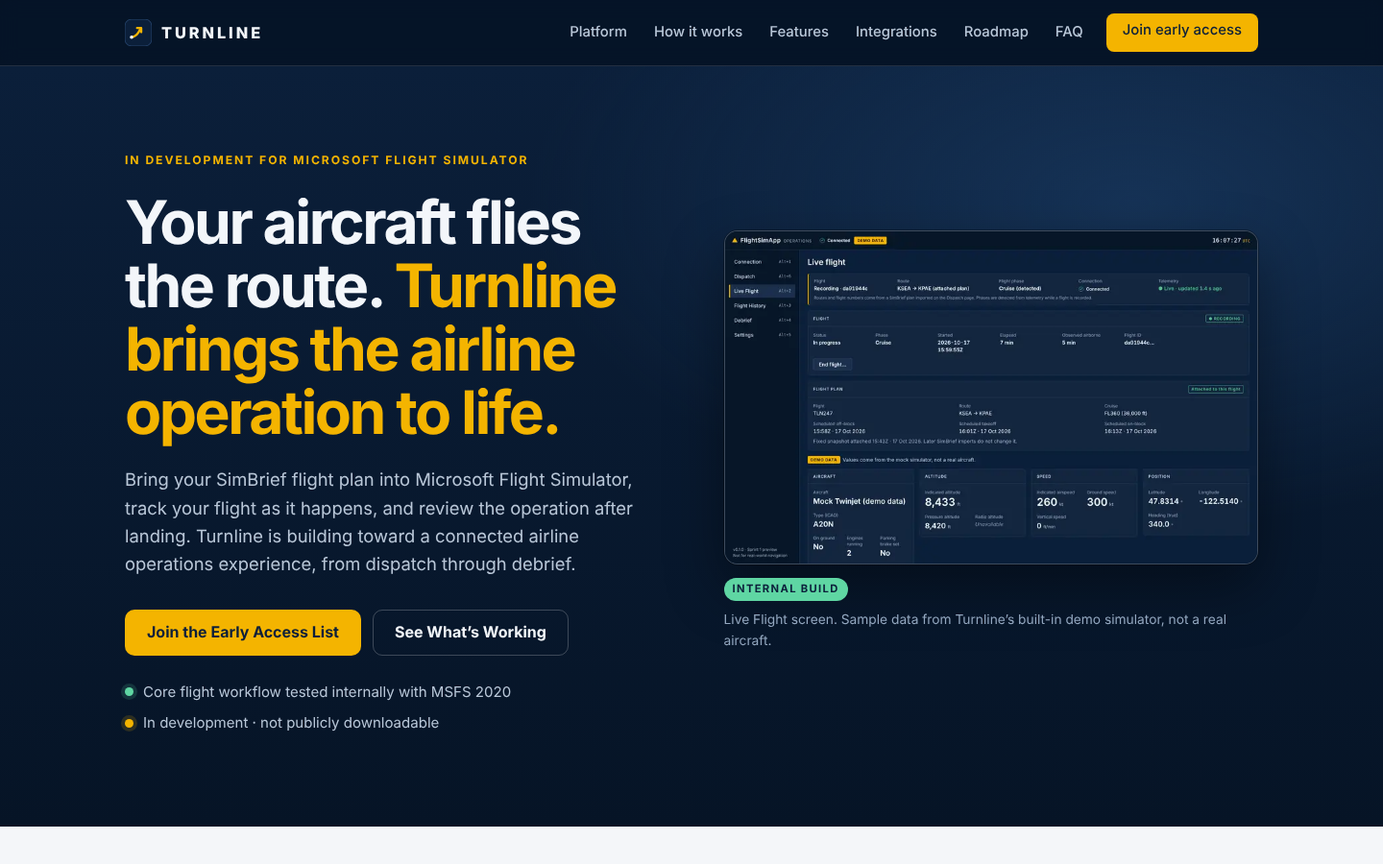
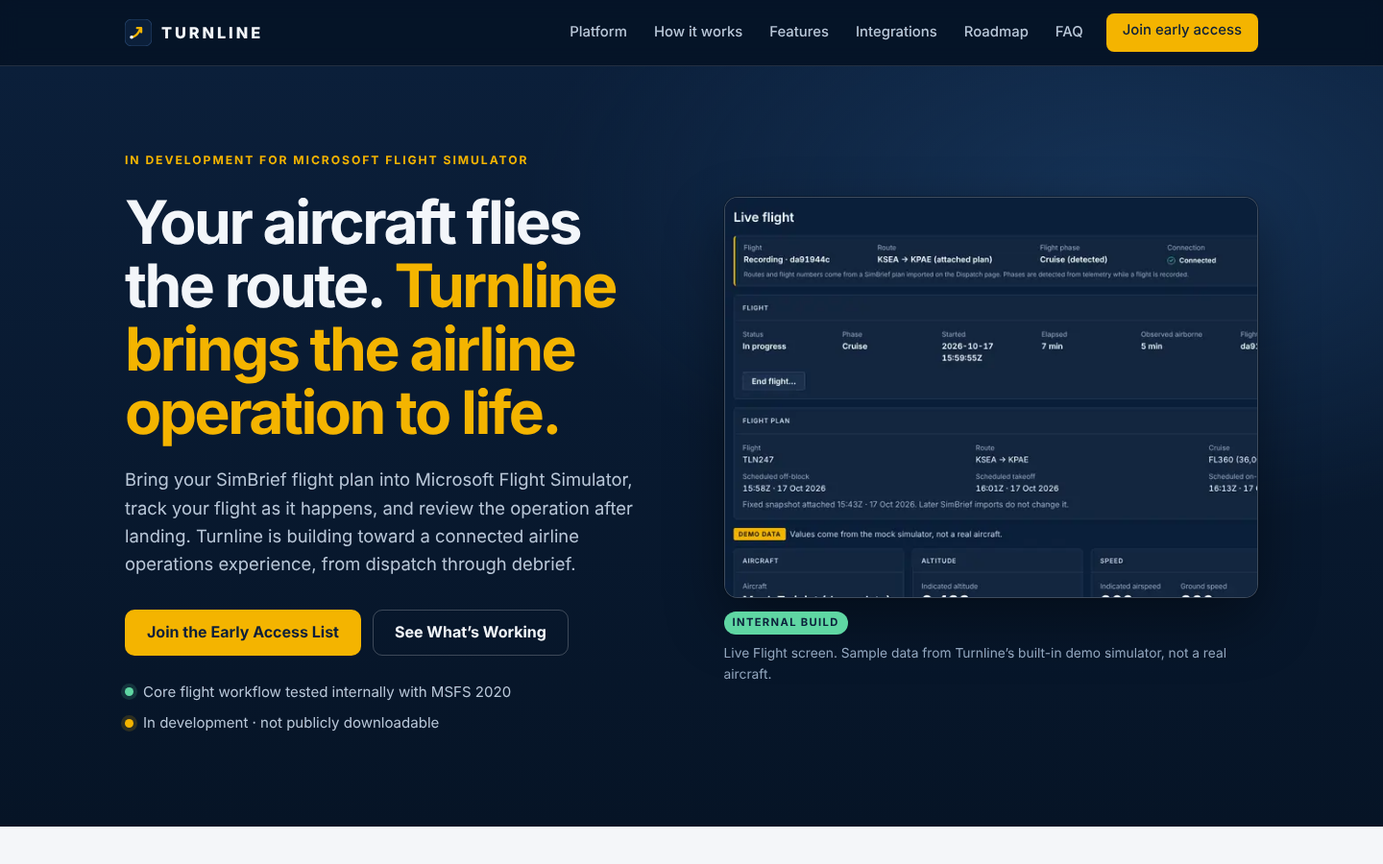
Marketing V3 finalization: deployment docs, MSFS 2020 owner acceptance, screenshot polish
Deployment (marketing/README.md):
- Production is https://turnlineops.com on Cloudflare Pages, deployed
  from main using marketing/. The outdated claude/new-session-2b3s69
  reference is removed.
- Documents the workflow (a merge to main deploys automatically),
  rollback, and how to verify production after an approved merge.

Acceptance evidence:
- New docs/testing/msfs2020-owner-acceptance-s2-01.md records the
  owner-reported hands-on acceptance with a real MSFS 2020 and a real
  SimBrief account (nine checks). Build, simulator version, aircraft,
  test date and recordings are marked not recorded.
- The MSFS 2020 matrix gains an OWNER-ACCEPTED evidence class (weaker
  than PASS). Only the directly supported rows are marked; every
  telemetry-field, behaviour and lifecycle cell stays NOT RUN. The test
  plan status points to the new record.

Website:
- "Tested" copy now matches the accepted checks: hands-on acceptance,
  not certification; scheduled OUT/OFF/ON/IN times; duplicate-import
  and offline-failure handling; history framed as listed. Persistent
  flight history moves to "Implemented internally", since restart
  survival with MSFS was not reported.
- Screenshots: the app top bar (internal name "FlightSimApp") is
  cropped out, with nothing retouched. New 4:3 detail crops are served
  to phones via <picture> and used for a more legible hero. An
  accessible <dialog> lightbox shows the full screens and falls back to
  plain links.
[…]

diff --git a/marketing/index.html b/marketing/index.html
@@ -93,9 +93,9 @@
     </div>
 
     <figure class="shot hero-shot reveal">
-      <div class="shot-frame">
-        <img src="assets/screens/live-1600.webp" srcset="assets/screens/live-800.webp 800w, assets/screens/live-1600.webp 1600w" sizes="(max-width: 960px) calc(100vw - 32px), 560px" width="1600" height="1000" fetchpriority="high" decoding="async" alt="Turnline Live Flight screen from an internal build: a flight from KSEA to KPAE is being recorded in cruise, with its attached SimBrief plan, live connection status, altitude 8,433 ft and ground speed 300 kt. Sample data from the built-in demo simulator.">
-      </div>
+      <a class="shot-frame" href="assets/screens/live-1600.webp" data-lightbox aria-label="Open the full Live Flight screenshot">
+        <img src="assets/screens/live-detail-1000.webp" srcset="assets/screens/live-detail-600.webp 600w, assets/screens/live-detail-1000.webp 1000w" sizes="(max-width: 960px) calc(100vw - 32px), 560px" width="1000" height="750" fetchpriority="high" decoding="async" alt="Turnline Live Flight screen from an internal build: a flight from KSEA to KPAE is being recorded in cruise with its attached SimBrief plan, live connection status and a demo-data notice. Sample data from the built-in demo simulator.">
+      </a>
       <figcaption class="shot-caption"><span class="real-tag">Internal build</span> Live Flight screen. Sample data from Turnline’s built-in demo simulator, not a real aircraft.</figcaption>
     </figure>
   </div>
@@ -107,21 +107,21 @@
     <div class="section-head reveal">
       <p class="eyebrow">Built and tested</p>
       <h2 id="working-title">What’s working today</h2>
-      <p>These capabilities are implemented in internal Windows builds and have been tested on a real PC running Microsoft Flight Simulator 2020. They aren’t publicly available yet.</p>
+      <p>These capabilities are implemented in internal Windows builds and have passed hands-on acceptance testing on a real PC running Microsoft Flight Simulator 2020, with a real SimBrief account. They aren’t publicly available yet.</p>
     </div>
     <ul class="built-grid" role="list">
       <li class="built reveal"><span class="status tested">Implemented internally · MSFS 2020 tested</span><h3>Windows desktop simulator connection</h3><p>A Windows app with a background simulator bridge that reads live aircraft data from MSFS 2020 and shows connection and data freshness honestly.</p></li>
-      <li class="built reveal"><span class="status tested">Implemented internally · MSFS 2020 tested</span><h3>Flight recording and history</h3><p>Start a flight and Turnline records phases, events and a track. Completed flights stay in your history on your PC.</p></li>
-      <li class="built reveal"><span class="status tested">Implemented internally · MSFS 2020 tested</span><h3>SimBrief OFP import</h3><p>Import your latest SimBrief operational flight plan by username or pilot ID: route, fuel, weights and aircraft. No Navigraph password is ever requested.</p></li>
-      <li class="built reveal"><span class="status tested">Implemented internally · MSFS 2020 tested</span><h3>Scheduled and estimated flight information</h3><p>Scheduled and estimated off-block, takeoff, landing and on-block times from the plan, in UTC.</p></li>
-      <li class="built reveal"><span class="status tested">Implemented internally · MSFS 2020 tested</span><h3>Plan persistence and offline use</h3><p>An imported plan is saved locally and stays available after a restart or without an internet connection.</p></li>
-      <li class="built reveal"><span class="status tested">Implemented internally · MSFS 2020 tested</span><h3>Immutable flight-plan attachment</h3><p>Attach the plan to a flight as a fixed snapshot. Later SimBrief imports never change what that flight was planned against.</p></li>
+      <li class="built reveal"><span class="status tested">Implemented internally · MSFS 2020 tested</span><h3>Flight recording and history</h3><p>Start a flight and Turnline records phases, events and a track until you confirm completion. Completed flights are listed in your history.</p></li>
+      <li class="built reveal"><span class="status tested">Implemented internally · MSFS 2020 tested</span><h3>SimBrief OFP import</h3><p>Import your latest SimBrief operational flight plan by username or pilot ID: route, fuel, weights and aircraft. Re-importing the same plan is handled cleanly, and no Navigraph password is ever requested.</p></li>
+      <li class="built reveal"><span class="status tested">Implemented internally · MSFS 2020 tested</span><h3>Scheduled flight times</h3><p>Scheduled off-block, takeoff, landing and on-block times (OUT/OFF/ON/IN) from your OFP, in UTC, matching SimBrief. Estimated times are shown alongside.</p></li>
+      <li class="built reveal"><span class="status tested">Implemented internally · MSFS 2020 tested</span><h3>Plan persistence and offline use</h3><p>An imported plan is saved locally and stays available after a restart or without an internet connection. An import attempted offline fails with a clear message.</p></li>
+      <li class="built reveal"><span class="status tested">Implemented internally · MSFS 2020 tested</span><h3>Flight-plan attachment</h3><p>Attach the plan to a flight as a fixed snapshot. Later SimBrief imports never change what that flight was planned against.</p></li>
       <li class="built reveal"><span class="status tested">Implemented internally · MSFS 2020 tested</span><h3>Planned-versus-actual debrief</h3><p>After landing, compare planned and detected takeoff, landing and flight time. Values that weren’t detected are shown as such, never guessed.</p></li>
     </ul>
     <div class="limits reveal">
       <h3>What “tested” means here</h3>
       <ul>
-        <li>Tested by the developer on a Windows PC with MSFS 2020, in the scenarios Turnline currently supports.</li>
+        <li>Hands-on acceptance testing by the Turnline team on one Windows PC with MSFS 2020 and a real SimBrief account, in the scenarios Turnline currently supports. It is not a formal compatibility certification.</li>
         <li>Public availability and broad aircraft, add-on and hardware compatibility have not been established.</li>
         <li>Microsoft Flight Simulator 2024 compatibility has not been verified.</li>
       </ul>
@@ -142,27 +142,27 @@
     <div class="section-head reveal">
       <p class="eyebrow">Inside the app</p>
       <h2 id="product-title">Real screens from the current internal build</h2>
-      <p>Captured from Turnline’s desktop app using sample data: a fictional SimBrief plan and the demo flight from the built-in mock simulator. The title bar shows the project’s working name.</p>
+      <p>Captured from Turnline’s desktop app using sample data: a fictional SimBrief plan and the demo flight from the built-in mock simulator. The app’s title bar is cropped out; nothing on the screens has been edited.</p>
     </div>
     <div class="gallery">
       <figure class="shot reveal">
-        <a class="shot-frame" href="assets/screens/dispatch-1600.webp" aria-label="Open the full-size Dispatch screenshot"><img src="assets/screens/dispatch-800.webp" srcset="assets/screens/dispatch-800.webp 800w, assets/screens/dispatch-1600.webp 1600w" sizes="(max-width: 960px) calc(100vw - 32px), 560px" width="1600" height="1000" loading="lazy" decoding="async" alt="Dispatch screen: a SimBrief plan for fictional flight TLN247 from Boston to Chicago O’Hare has been imported, showing aircraft, route, scheduled and estimated times, and planned fuel."></a>
+        <a class="shot-frame" href="assets/screens/dispatch-1600.webp" data-lightbox aria-label="Open the full-size Dispatch screenshot"><picture><source media="(max-width: 600px)" srcset="assets/screens/dispatch-detail-600.webp 600w, assets/screens/dispatch-detail-1000.webp 1000w" sizes="calc(100vw - 32px)" width="1000" height="750"><img src="assets/screens/dispatch-800.webp" srcset="assets/screens/dispatch-800.webp 800w, assets/screens/dispatch-1600.webp 1600w" sizes="(max-width: 960px) calc(100vw - 32px), 560px" width="1600" height="944" loading="lazy" decoding="async" alt="Dispatch screen: a SimBrief plan for fictional flight TLN247 from Boston to Chicago O’Hare has been imported, showing aircraft, route, scheduled and estimated times, and planned fuel."></picture></a>
         <figcaption><h3>Dispatch and SimBrief import</h3><p>Your latest OFP, imported on request: route, schedule, fuel and weights.</p></figcaption>
       </figure>
       <figure class="shot reveal">
-        <a class="shot-frame" href="assets/screens/live-1600.webp" aria-label="Open the full-size Live Flight screenshot"><img src="assets/screens/live-800.webp" srcset="assets/screens/live-800.webp 800w, assets/screens/live-1600.webp 1600w" sizes="(max-width: 960px) calc(100vw - 32px), 560px" width="1600" height="1000" loading="lazy" decoding="async" alt="Live Flight screen: a flight in cruise is being recorded with its attached plan, detected phase, live telemetry status, aircraft, altitude, speed and position."></a>
+        <a class="shot-frame" href="assets/screens/live-1600.webp" data-lightbox aria-label="Open the full-size Live Flight screenshot"><picture><source media="(max-width: 600px)" srcset="assets/screens/live-detail-600.webp 600w, assets/screens/live-detail-1000.webp 1000w" sizes="calc(100vw - 32px)" width="1000" height="750"><img src="assets/screens/live-800.webp" srcset="assets/screens/live-800.webp 800w, assets/screens/live-1600.webp 1600w" sizes="(max-width: 960px) calc(100vw - 32px), 560px" width="1600" height="944" loading="lazy" decoding="async" alt="Live Flight screen: a flight in cruise is being recorded with its attached plan, detected phase, live telemetry status, aircraft, altitude, speed and position."></picture></a>
         <figcaption><h3>Live Flight telemetry</h3><p>Detected phase, live aircraft data and the attached plan while the flight is recorded.</p></figcaption>
       </figure>
       <figure class="shot reveal">
-        <a class="shot-frame" href="assets/screens/history-1600.webp" aria-label="Open the full-size Flight History screenshot"><img src="assets/screens/history-800.webp" srcset="assets/screens/history-800.webp 800w, assets/screens/history-1600.webp 1600w" sizes="(max-width: 960px) calc(100vw - 32px), 560px" width="1600" height="1000" loading="lazy" decoding="async" alt="Flight History screen listing three completed demo flights with start time, aircraft, session time, airborne time and a link to each debrief."></a>
+        <a class="shot-frame" href="assets/screens/history-1600.webp" data-lightbox aria-label="Open the full-size Flight History screenshot"><picture><source media="(max-width: 600px)" srcset="assets/screens/history-detail-600.webp 600w, assets/screens/history-detail-1000.webp 1000w" sizes="calc(100vw - 32px)" width="1000" height="750"><img src="assets/screens/history-800.webp" srcset="assets/screens/history-800.webp 800w, assets/screens/history-1600.webp 1600w" sizes="(max-width: 960px) calc(100vw - 32px), 560px" width="1600" height="944" loading="lazy" decoding="async" alt="Flight History screen listing three completed demo flights with start time, aircraft, session time, airborne time and a link to each debrief."></picture></a>
         <figcaption><h3>Flight History</h3><p>Every recorded flight, stored on your PC, with session and airborne time.</p></figcaption>
       </figure>
       <figure class="shot reveal">
-        <a class="shot-frame" href="assets/screens/debrief-1600.webp" aria-label="Open the full-size Debrief screenshot"><img src="assets/screens/debrief-800.webp" srcset="assets/screens/debrief-800.webp 800w, assets/screens/debrief-1600.webp 1600w" sizes="(max-width: 960px) calc(100vw - 32px), 560px" width="1600" height="1000" loading="lazy" decoding="async" alt="Flight debrief screen: a planned-versus-actual table compares planned and detected takeoff, landing and flight time, with off-block and on-block marked as not detected, above the recorded flight overview."></a>
+        <a class="shot-frame" href="assets/screens/debrief-1600.webp" data-lightbox aria-label="Open the full-size Debrief screenshot"><picture><source media="(max-width: 600px)" srcset="assets/screens/debrief-detail-600.webp 600w, assets/screens/debrief-detail-1000.webp 1000w" sizes="calc(100vw - 32px)" width="1000" height="750"><img src="assets/screens/debrief-800.webp" srcset="assets/screens/debrief-800.webp 800w, assets/screens/debrief-1600.webp 1600w" sizes="(max-width: 960px) calc(100vw - 32px), 560px" width="1600" height="944" loading="lazy" decoding="async" alt="Flight debrief screen: a planned-versus-actual table compares planned and detected takeoff, landing and flight time, with off-block and on-block marked as not detected, above the recorded flight overview."></picture></a>
         <figcaption><h3>Operational Debrief</h3><p>Planned versus actual, from what was really detected. No invented delays or scores.</p></figcaption>
       </figure>
     </div>
-    <p class="gallery-note">Screens show sample data, not a real aircraft or a real SimBrief account. Dispatch release, route monitoring and the other features still in development are not shown.</p>
+    <p class="gallery-note">Screens show sample data, not a real aircraft or a real SimBrief account. Select a screen to see it full size; on small screens each preview shows a detail of the full screen. Dispatch release, route monitoring and the other features still in development are not shown.</p>
   </div>
 </section>
 
@@ -241,8 +241,8 @@
           <ul class="feature-list">
             <li><div class="fl-top"><strong>SimBrief OFP import</strong><span class="status tested">Implemented internally · MSFS 2020 tested</span></div><p>Import your latest SimBrief plan by username or pilot ID, only when you ask. Tested with a real SimBrief account.</p></li>
             <li><div class="fl-top"><strong>Operational flight plan information</strong><span class="status tested">Implemented internally · MSFS 2020 tested</span></div><p>Flight, aircraft, route, alternate, weights and planned fuel shown alongside the flight.</p></li>
-            <li><div class="fl-top"><strong>Scheduled &amp; estimated times</strong><span class="status tested">Implemented internally · MSFS 2020 tested</span></div><p>Scheduled and estimated off-block, takeoff, landing and on-block times from the plan.</p></li>
-            <li><div class="fl-top"><strong>Plan persistence &amp; offline use</strong><span class="status tested">Implemented internally · MSFS 2020 tested</span></div><p>The imported plan is stored locally and survives restarts and lost connectivity.</p></li>
+            <li><div class="fl-top"><strong>Scheduled times (OUT/OFF/ON/IN)</strong><span class="status tested">Implemented internally · MSFS 2020 tested</span></div><p>Scheduled off-block, takeoff, landing and on-block times from the plan, matching SimBrief; estimates shown alongside.</p></li>
+            <li><div class="fl-top"><strong>Plan persistence &amp; offline use</strong><span class="status tested">Implemented internally · MSFS 2020 tested</span></div><p>The imported plan survives restarts and lost connectivity; an offline import fails gracefully.</p></li>
             <li><div class="fl-top"><strong>Immutable plan attachment</strong><span class="status tested">Implemented internally · MSFS 2020 tested</span></div><p>A fixed snapshot of the plan is attached to the flight; later imports never change it.</p></li>
             <li><div class="fl-top"><strong>Dispatch release workflow</strong><span class="status dev">In active development</span></div><p>A formal point where the flight is released. Built; awaiting acceptance testing on Windows.</p></li>
             <li><div class="fl-top"><strong>Waypoint navigation log</strong><span class="status dev">In active development</span></div><p>The plan’s waypoints with planned altitude, distance, time and fuel. Awaiting real-flight acceptance.</p></li>
@@ -300,7 +300,7 @@
           <ul class="feature-list">
             <li><div class="fl-top"><strong>Flight timeline</strong><span class="status tested">Implemented internally · MSFS 2020 tested</span></div><p>A phase-by-phase timeline and event log of each recorded flight.</p></li>
             <li><div class="fl-top"><strong>Planned versus actual</strong><span class="status tested">Implemented internally · MSFS 2020 tested</span></div><p>Detected takeoff, landing and flight time compared with the attached plan; anything not detected is shown as such.</p></li>
-            <li><div class="fl-top"><strong>Persistent flight history</strong><span class="status tested">Implemented internally · MSFS 2020 tested</span></div><p>Flights stored locally on your PC, so your history doesn’t depend on a cloud account.</p></li>
+            <li><div class="fl-top"><strong>Persistent flight history</strong><span class="status impl">Implemented internally</span></div><p>Flights stored locally on your PC, so your history doesn’t depend on a cloud account. Survives restarts in internal tests; not yet separately checked with MSFS.</p></li>
             <li><div class="fl-top"><strong>Navigation debrief</strong><span class="status dev">In active development</span></div><p>Planned versus flown route distance and time outside the planned route corridor, described as observations, not judgements.</p></li>
             <li><div class="fl-top"><strong>Delay classification</strong><span class="status plan">Planned</span></div><p>Delays attributed to causes such as boarding, servicing or air traffic.</p></li>
             <li><div class="fl-top"><strong>Decision-based analysis</strong><span class="status plan">Planned</span></div><p>The decisions you made and the consequences that followed.</p></li>
@@ -518,6 +518,15 @@
     </div>
   </div>
 </section>
+
+<dialog class="lightbox" id="lightbox" aria-labelledby="lightbox-title">
+  <div class="lightbox-bar">
+    <p class="lightbox-title" id="lightbox-title">Screenshot</p>
+    <button class="lightbox-close" type="button" aria-label="Close screenshot">Close</button>
+  </div>
+  <div class="lightbox-body"><img alt="" width="1600" height="944" decoding="async"></div>
+  <p class="lightbox-note">Internal build · sample data. On small screens, scroll to see the whole screen.</p>
+</dialog>
 
 </main>
 

diff --git a/marketing/assets/site.css b/marketing/assets/site.css
@@ -191,7 +191,8 @@ section { position: relative; }
   display: block; border-radius: 14px; overflow: hidden; background: var(--navy-900);
   border: 1px solid var(--line-strong); box-shadow: 0 24px 60px rgba(0, 0, 0, .4), 0 0 0 1px rgba(0, 0, 0, .25);
 }
-.shot-frame img { width: 100%; height: auto; aspect-ratio: 16 / 10; object-fit: cover; object-position: top left; }
+.shot-frame img { width: 100%; height: auto; }
+.shot-frame picture { display: block; }
 a.shot-frame { transition: border-color .15s ease; }
 a.shot-frame:hover { border-color: var(--gold); }
 .shot-caption { margin-top: 14px; font-size: .86rem; color: var(--dim); display: flex; flex-wrap: wrap; align-items: center; gap: 8px; }
@@ -204,6 +205,20 @@ a.shot-frame:hover { border-color: var(--gold); }
 .gallery figcaption h3 { font-size: 1.12rem; }
 .gallery figcaption p { margin-top: 4px; color: var(--muted); font-size: .94rem; }
 .gallery-note { margin-top: 30px; color: var(--dim); font-size: .9rem; max-width: 820px; }
+.lightbox {
+  width: min(1240px, calc(100vw - 24px)); max-width: none; max-height: calc(100vh - 24px); padding: 0; overflow: hidden;
+  border: 1px solid var(--line-strong); border-radius: 14px; background: var(--navy-950); color: var(--text);
+}
+.lightbox::backdrop { background: rgba(3, 10, 20, .82); }
+.lightbox[open] { display: flex; flex-direction: column; }
+.lightbox-bar { display: flex; align-items: center; justify-content: space-between; gap: 12px; padding: 10px 12px 10px 18px; border-bottom: 1px solid var(--line); }
+.lightbox-title { font-weight: 700; }
+.lightbox-close { min-height: 40px; padding: 6px 14px; border-radius: 9px; border: 1px solid var(--line-strong); background: transparent; color: var(--text); font-weight: 650; }
+.lightbox-close:hover { border-color: var(--gold); }
+.lightbox-body { overflow: auto; flex: 1; min-height: 0; -webkit-overflow-scrolling: touch; }
+.lightbox-body img { width: 100%; height: auto; }
+.lightbox-note { padding: 8px 18px 12px; font-size: .82rem; color: var(--dim); border-top: 1px solid var(--line); }
+@media (max-width: 680px) { .lightbox-body img { width: 1100px; max-width: none; } }
 /* ---------- built and tested ---------- */
 .built-grid { list-style: none; display: grid; grid-template-columns: repeat(4, minmax(0, 1fr)); gap: 16px; }
 .built { background: var(--white); border: 1px solid var(--slate-200); border-radius: var(--radius); padding: 22px; display: flex; flex-direction: column; gap: 10px; box-shadow: 0 1px 2px rgba(11, 31, 58, .05); }

diff --git a/marketing/assets/site.js b/marketing/assets/site.js
@@ -83,6 +83,26 @@
     reveals.forEach((el) => el.classList.add('is-visible'));
   }
 
+  // ---------- screenshot lightbox (links open the image directly without JS or <dialog>) ----------
+  const lightbox = $('#lightbox');
+  if (lightbox && typeof lightbox.showModal === 'function') {
+    const img = $('img', lightbox);
+    const title = $('#lightbox-title');
+    $$('[data-lightbox]').forEach((link) => link.addEventListener('click', (e) => {
+      if (e.button !== 0 || e.metaKey || e.ctrlKey || e.shiftKey || e.altKey) return; // keep new-tab behaviour
+      e.preventDefault();
+      const shown = $('img', link);
+      img.src = link.getAttribute('href');
+      img.alt = shown ? shown.alt : '';
+      title.textContent = link.closest('figure')?.querySelector('h3')?.textContent || 'Live Flight';
+      lightbox.showModal();
+      $('.lightbox-close', lightbox).focus();
+    }));
+    $('.lightbox-close', lightbox).addEventListener('click', () => lightbox.close());
+    lightbox.addEventListener('click', (e) => { if (e.target === lightbox) lightbox.close(); });
+    lightbox.addEventListener('close', () => { img.removeAttribute('src'); });
+  }
+
   // ---------- waitlist ----------
   const cfg = window.TURNLINE_CONFIG || {};
   const form = $('#signup');

diff --git a/marketing/README.md b/marketing/README.md
@@ -1,8 +1,49 @@
 # Turnline marketing site
 
-Static prelaunch site for turnlineops.com, served by Cloudflare Pages from this `marketing/` directory
-(branch `claude/new-session-2b3s69`). It is NOT part of the desktop app. Launch posture: `noindex,nofollow`
-stays on every page until the owner approves discoverability and brand clearance.
+Static prelaunch site. It is NOT part of the desktop app. Launch posture: `noindex,nofollow` (the meta tag on
+every page plus the `X-Robots-Tag` header in `_headers`) stays until the owner approves discoverability and brand
+clearance.
+
+## Deployment
+
+| | |
+|---|---|
+| Production domain | https://turnlineops.com |
+| Platform | Cloudflare Pages |
+| Production branch | `main` |
+| Site directory (build output) | `marketing/` (static files; no build step) |
+| Previews | Cloudflare Pages builds a preview URL for each pull-request branch (posted on the PR by the Cloudflare bot). Previews are not production. |
+
+**A merge to `main` deploys production automatically.** Anything merged into `marketing/` on `main` goes live
+without a separate release step, so merge marketing PRs only with explicit owner approval.
+
+**Workflow:**
+1. Work on a feature branch, open a PR against `main`, and check the Cloudflare preview URL on the PR.
+2. Run the site tests, normally and with `--live-turnstile` (see Testing), and wait for CI on the PR.
+3. The owner approves and merges. Cloudflare Pages then builds and publishes `main` (watch the deployment in the
+   Cloudflare dashboard, or the commit status on `main`).
+4. **To roll back,** re-deploy the previous production deployment from the Cloudflare Pages dashboard, or revert the
+   merge commit on `main`.
+   - Signups alone can be disabled without a redeploy of other content: set `apiUrl: ""` in `config.js` (the page then
+     shows "Signups are not open yet").
+
+**Verify production after an approved merge** (no real subscriber data):
+- `https://turnlineops.com/` returns 200 and shows the merged content. Check the hero headline, and that the "What’s
+  working today" section is present after V3.
+- `curl -sI https://turnlineops.com/` includes `x-robots-tag: noindex, nofollow`, and the page source still has
+  `<meta name="robots" content="noindex,nofollow">`.
+- These return 200 with the right content type:
+  - `/assets/site.css`, `/assets/site.js` and `/config.js`;
+  - `/assets/og-image.png` and one screenshot, for example `/assets/screens/live-1600.webp` (`image/webp`).
+- `/assets/definitely-missing.css` returns a real 404 (the root `404.html` prevents the SPA fallback).
+- `config.js` still contains only the public `apiUrl` and `turnstileSiteKey`.
+- In a desktop and a mobile browser:
+  - the Turnstile widget renders in the early-access form, and the console shows no errors;
+  - the privacy notice opens.
+- The owner runs the manual live-signup check in `docs/testing/waitlist-live-acceptance.md` (sign up → confirmation
+  email → confirm → unsubscribe) with an address they control.
+- Check the social preview (for example with each network's post inspector). Previews may show the previous image
+  until the network's cache refreshes.
 
 ## V3 (real product progress and early access)
 - **What changed:**
@@ -24,19 +65,37 @@ stays on every page until the owner approves discoverability and brand clearance
   - *Planned*, *Research*: as before. Passenger, ground handling, GSX, SayIntentions, ACARS, airline scheduling,
     delay causes and cause-and-effect simulation are Planned or Research.
   - MSFS 2024 stays *In active development* (unverified) until there is separate documented acceptance evidence.
-- **Evidence behind the "MSFS 2020 tested" label:** the owner's real-PC acceptance testing of the merged S2-01 work
-  (PRs #6 and #8) and the Sprint 1 foundation. Note that `docs/compatibility/msfs2020-matrix.md` and
-  `fixtures/recordings/real/` do not yet record that run. Add the acceptance report and a sanitised recording there,
-  so the website claim has a documented source.
-- **Screenshots** (`assets/screens/*.webp`, 1600 and 800 px wide):
-  - Captured from the desktop app as merged on `main`. S2-02 and S2-03 screens are excluded.
-  - Rendered in Chromium with in-memory stores. Live Flight, History and Debrief come from the bridge's recorded
-    mock-adapter demo flight (`fixtures/recordings/simulated/mock-nominal-markers.jsonl.gz`) replayed through the real
-    `FlightRecorder`. Dispatch is the synthetic `fixtures/simbrief/ofp-v2-iso-times.json` (times moved to the capture
-    day; a KSEA→KPAE copy is attached to the demo flight).
-  - Every screen shows **sample data**, and the page says so: captions, the section intro, a note under the gallery,
-    the footer and the in-app "DEMO DATA" badges. The app's title bar still shows the working name "FlightSimApp".
-  - Replace them with captures from a real MSFS 2020 session when available, keeping the alt text accurate.
+- **Evidence behind the "MSFS 2020 tested" label:** owner-reported hands-on acceptance with a real MSFS 2020 and a
+  real SimBrief account, recorded in `docs/testing/msfs2020-owner-acceptance-s2-01.md` and as `OWNER-ACCEPTED` rows in
+  `docs/compatibility/msfs2020-matrix.md`.
+  - Use the label only for those checks: connection and recording, OFP import, scheduled OUT/OFF/ON/IN times,
+    duplicate import, plan persistence, offline behaviour, plan attachment, flight completion, planned-versus-actual
+    debrief.
+  - Build, simulator version and aircraft were not recorded, and no recording exists. Don't strengthen the wording
+    (e.g. "verified", "compatible", "supported aircraft") until instrumented evidence is committed.
+- **Screenshots** (`assets/screens/`):
+  - **Files:**
+    - `<screen>-1600.webp` / `-800.webp`: the full app window (1600×944);
+    - `<screen>-detail-1000.webp` / `-600.webp`: a 4:3 crop of the main panel. Phones get the detail crop through
+      `<picture>`; the hero uses the Live Flight detail.
+  - **Provenance:**
+    - Captured from the desktop app as merged on `main`. S2-02 and S2-03 screens are excluded.
+    - Rendered in Chromium with in-memory stores. Live Flight, History and Debrief come from the bridge's recorded
+      mock-adapter demo flight (`fixtures/recordings/simulated/mock-nominal-markers.jsonl.gz`) replayed through the
+      real `FlightRecorder`. Dispatch is the synthetic `fixtures/simbrief/ofp-v2-iso-times.json` (times moved to the
+      capture day; a KSEA→KPAE copy is attached to the demo flight).
+  - **Edits:** the app's top bar is cropped out. It carries the internal working name "FlightSimApp", the connection
+    status and the clock. Nothing on the screens is retouched, and the in-app "DEMO DATA" notices are kept.
+  - **Disclosure:** every screen shows **sample data**, and the page says so in the captions, the section intro, the
+    note under the gallery, the lightbox and the footer.
+  - **Lightbox:** selecting a screen opens the full-size image in a native `<dialog>`. It closes with Escape, the
+    Close button or the backdrop, and focus returns to the link. Without JS or `<dialog>` support, the link opens the
+    image directly.
+  - **To replace with real MSFS 2020 captures:** use a 1600×1000 window, crop the top 56 px, make the detail crops
+    with the same geometry, and keep the alt text accurate. Hide your SimBrief username, pilot ID and aircraft
+    registration.
+  - **Follow-up (desktop, not this site):** rename the app's visible title from "FlightSimApp" to "Turnline". Leave
+    the bundle identifiers, SQLite paths and bridge identity alone; changing those needs its own migration plan.
 - **Concept visuals:** only the scenario section and its debrief card remain; both are labelled.
 - **Images:** the only `<img>` elements are Turnline screenshots, and the tests enforce that. Each has alt text and
   dimensions. The hero image loads eagerly; the gallery images load lazily. No third-party logos.

diff --git a/docs/compatibility/msfs2020-matrix.md b/docs/compatibility/msfs2020-matrix.md
@@ -2,13 +2,16 @@
 
 Separate from the other simulator's matrix: a result here says nothing about the other version.
 
-**Status (S1-07): no row has been run against a real MSFS 2020.** Every real-simulator cell is `NOT RUN`.
+**Status (updated 2026-10-17):**
+- **Instrumented evidence:** no row has been verified with a real-simulator recording and cockpit check. Every telemetry-field, simulator-behaviour and lifecycle cell is still `NOT RUN`.
+- **Owner acceptance:** the project owner has reported hands-on acceptance of the desktop workflow with a real MSFS 2020 and a real SimBrief account. See [msfs2020-owner-acceptance-s2-01.md](../testing/msfs2020-owner-acceptance-s2-01.md). Only the rows that acceptance directly supports are marked, as `OWNER-ACCEPTED`, a weaker class than `PASS`.
 
 Columns, kept separate on purpose:
 - **Simulated:** unit tests, fakes, the mock adapter, synthetic or simulated recordings (Linux and Windows).
 - **CI-verified (Windows, no MSFS):** passed on the GitHub `windows-latest` runner. No simulator is involved.
 - **Real MSFS 2020:** PASS / FAIL / NOT RUN, from the acceptance report of a sanitised recording made on a physical PC ([msfs2020-test-plan.md](../testing/msfs2020-test-plan.md)).
   A field counts as PASS only when the report says *VERIFIED*, which needs a real-simulator recording **and** a matching cockpit check.
+  `OWNER-ACCEPTED` means the owner ran the check by hand on a physical PC and reported it passing, with no recording or log committed. It never verifies individual telemetry fields.
 
 ## Telemetry fields
 
@@ -59,13 +62,27 @@ Columns, kept separate on purpose:
 
 | Check | Simulated | CI-verified (Windows, no MSFS) | Real MSFS 2020 |
 |---|---|---|---|
-| SimConnect.dll found via FLIGHTSIM_SIMCONNECT_DLL / next to the bridge → 'loaded, not runtime-verified' | — | W: DLL absent → not_built / sdk_unavailable (CI probe and UI smoke) | NOT RUN |
-| Desktop app: live flight recorded, completion confirmed, listed in history, survives restart | L: mock (unit); W: mock flight in WebView2 (CI smoke) | W (mock data only) | NOT RUN |
+| SimConnect.dll found via FLIGHTSIM_SIMCONNECT_DLL / next to the bridge → 'loaded, not runtime-verified' | — | W: DLL absent → not_built / sdk_unavailable (CI probe and UI smoke) | OWNER-ACCEPTED: the app connected to MSFS 2020, so the DLL loaded. The probe check (test plan §1.2) was not run, and the SDK version was not recorded. |
+| Desktop app: live flight recorded, completion confirmed, listed in history, survives restart | L: mock (unit); W: mock flight in WebView2 (CI smoke) | W (mock data only) | OWNER-ACCEPTED (partial): recorded and completed, with a planned-versus-actual debrief. Survival of the flight after a restart was not reported. |
 | Bridge exits with the app (window close, forced kill) while SimConnect is open | L: shutdown deadline (code) | W: without SimConnect (CI smoke) | NOT RUN |
 | Bridge log written to %APPDATA%\dev.flightsimapp.desktop\logs\bridge.log | L: Rust unit tests | W: CI smoke (pending first run of this check) | NOT RUN |
+
+## Desktop workflow with real MSFS 2020 and SimBrief (owner acceptance)
+
+| Check | Real MSFS 2020 | Source |
+|---|---|---|
+| Desktop connection and flight recording | OWNER-ACCEPTED | [owner acceptance](../testing/msfs2020-owner-acceptance-s2-01.md) #1 |
+| SimBrief OFP import (real account) | OWNER-ACCEPTED | #2 |
+| Scheduled OUT/OFF/ON/IN times from the OFP (not the detected S2-02 timeline) | OWNER-ACCEPTED | #3 |
+| Duplicate import handling | OWNER-ACCEPTED | #4 |
+| Imported plan persists after restart | OWNER-ACCEPTED | #5 |
+| Offline plan availability and graceful import failure | OWNER-ACCEPTED | #6 |
+| Flight-plan attachment | OWNER-ACCEPTED | #7 |
+| Recorded flight completion | OWNER-ACCEPTED | #8 |
+| Planned-versus-actual debrief | OWNER-ACCEPTED | #9 |
 
 ## Environment of each real result
 
 | Date | Tester | Windows build | Edition / version | SDK version | Aircraft | App commit | Recordings |
 |---|---|---|---|---|---|---|---|
-| — | — | — | — | — | — | — | — |
+| Not recorded (reported 2026-10-17) | Project owner | Not recorded | Not recorded | Not recorded | Not recorded | Not recorded (includes the PR #8 fix) | None |

diff --git a/docs/testing/msfs2020-owner-acceptance-s2-01.md b/docs/testing/msfs2020-owner-acceptance-s2-01.md
@@ -1,0 +1,62 @@
+# MSFS 2020 owner acceptance: desktop recording and SimBrief import (S2-01)
+
+**Evidence class: OWNER-REPORTED HANDS-ON ACCEPTANCE.** The project owner ran the Turnline desktop app on a physical
+Windows PC with Microsoft Flight Simulator 2020 and a real SimBrief account, and reported the results below as passing.
+
+What this record is not:
+- It is **not** the instrumented acceptance described in [msfs2020-test-plan.md](msfs2020-test-plan.md). No probe
+  recording, cockpit-check log or `acceptance.mjs` report was produced or committed.
+- It does **not** verify individual telemetry fields. The SimVar rows of the
+  [MSFS 2020 matrix](../compatibility/msfs2020-matrix.md) stay `NOT RUN`.
+- It is **not** evidence of broad aircraft, add-on or hardware compatibility (one PC, aircraft not recorded).
+- It says **nothing** about Microsoft Flight Simulator 2024.
+- It is **not** a statement of public-beta readiness.
+
+## Environment
+
+| Item | Value |
+|---|---|
+| Reported | 2026-10-17 |
+| Test date(s) | Not recorded |
+| Tester | Project owner |
+| Windows version / build | Not recorded |
+| MSFS 2020 edition and version (Store / Steam, sim version) | Not recorded |
+| `SimConnect.dll` SDK version | Not recorded |
+| Aircraft | Not recorded |
+| App build / commit / tester-kit run | Not recorded. Scheduled-time accuracy depends on the PR #8 fix (merged into `main` at 800ecd3), so the build must include it; the exact commit was not recorded. |
+| SimBrief account | Real account (identity deliberately not recorded) |
+| Recordings, logs, screenshots | None committed. `fixtures/recordings/real/msfs2020/` is still empty. |
+
+## Results (owner-reported)
+
+| # | Check | Result | Scope notes |
+|---|---|---|---|
+| 1 | Desktop connection to MSFS 2020 and flight recording | PASS (owner-reported) | One flight session or more; aircraft not recorded. |
+| 2 | SimBrief OFP import from a real account | PASS (owner-reported) | Latest OFP fetched on request. |
+| 3 | Scheduled OUT/OFF/ON/IN times from the OFP | PASS (owner-reported) | The **scheduled** off-block, takeoff, landing and on-block times imported from SimBrief match the OFP. This is not the detected OUT/OFF/ON/IN timeline, which is S2-02 (PR #9, not merged). |
+| 4 | Duplicate import handling | PASS (owner-reported) | Re-importing the same OFP. |
+| 5 | Imported plan persists after an app restart | PASS (owner-reported) | |
+| 6 | Offline: the imported plan stays available, and an import attempt fails gracefully | PASS (owner-reported) | |
+| 7 | Attaching the flight plan to a flight | PASS (owner-reported) | |
+| 8 | Recorded flight completion | PASS (owner-reported) | Whether completion followed landing-and-parking evidence or explicit confirmation was not recorded. |
+| 9 | Planned-versus-actual debrief | PASS (owner-reported) | Detected takeoff, landing and flight time compared with the attached plan. |
+
+## Not covered by this acceptance
+
+- Field-by-field telemetry accuracy against the cockpit (test cases C20-1 to C20-10).
+- Simulator behaviours such as pause, main-menu return, aircraft change, quitting MSFS mid-flight and go-arounds.
+- Flight history surviving a forced kill and restart with a real simulator. This has only been CI-verified on
+  Windows without MSFS.
+- S2-02, dispatch release and the detected OUT/OFF/ON/IN timeline (PR #9, open).
+- S2-03, navlog and route monitoring (PR #10, open).
+- MSFS 2024.
+
+## How this is used
+
+- The marketing site's "Implemented internally · MSFS 2020 tested" label refers to exactly the checks above. The
+  site states the limits: one PC, supported scenarios, not public, broad compatibility not established, MSFS 2024
+  not verified.
+- **To upgrade this to instrumented evidence:**
+  1. Run the [MSFS 2020 test plan](msfs2020-test-plan.md) with the probe.
+  2. Commit the sanitised recording and its `acceptance.mjs` report under `fixtures/recordings/real/msfs2020/`.
+  3. Fill in the environment table above.

diff --git a/docs/testing/msfs2020-test-plan.md b/docs/testing/msfs2020-test-plan.md
@@ -1,6 +1,6 @@
 # MSFS 2020 test plan (physical Windows PC)
 
-**Status:** prepared in S1-07. **Not yet executed.** Nothing in this plan has been run against a real simulator.
+**Status:** prepared in S1-07. **Not yet executed with the probe.** No instrumented result exists. The owner has separately reported hands-on acceptance of the desktop workflow; see [msfs2020-owner-acceptance-s2-01.md](msfs2020-owner-acceptance-s2-01.md). That does not count as running this plan.
 
 Separate from the MSFS 2024 plan on purpose: results must never be merged into one "MSFS supported" claim.
 
